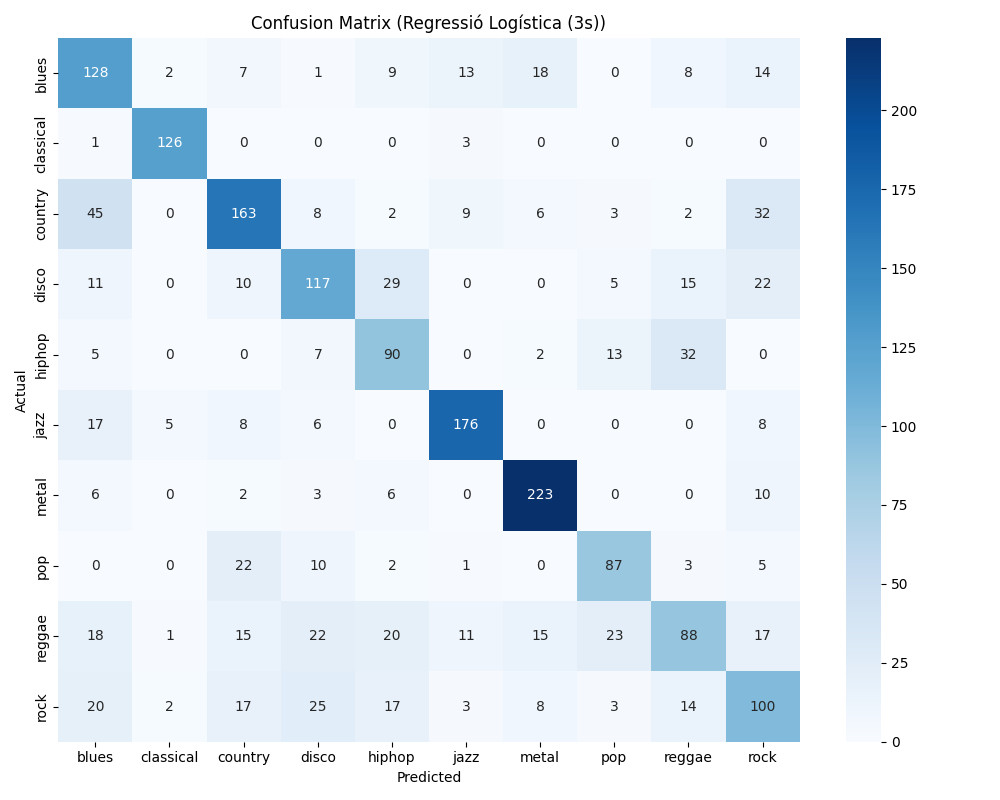
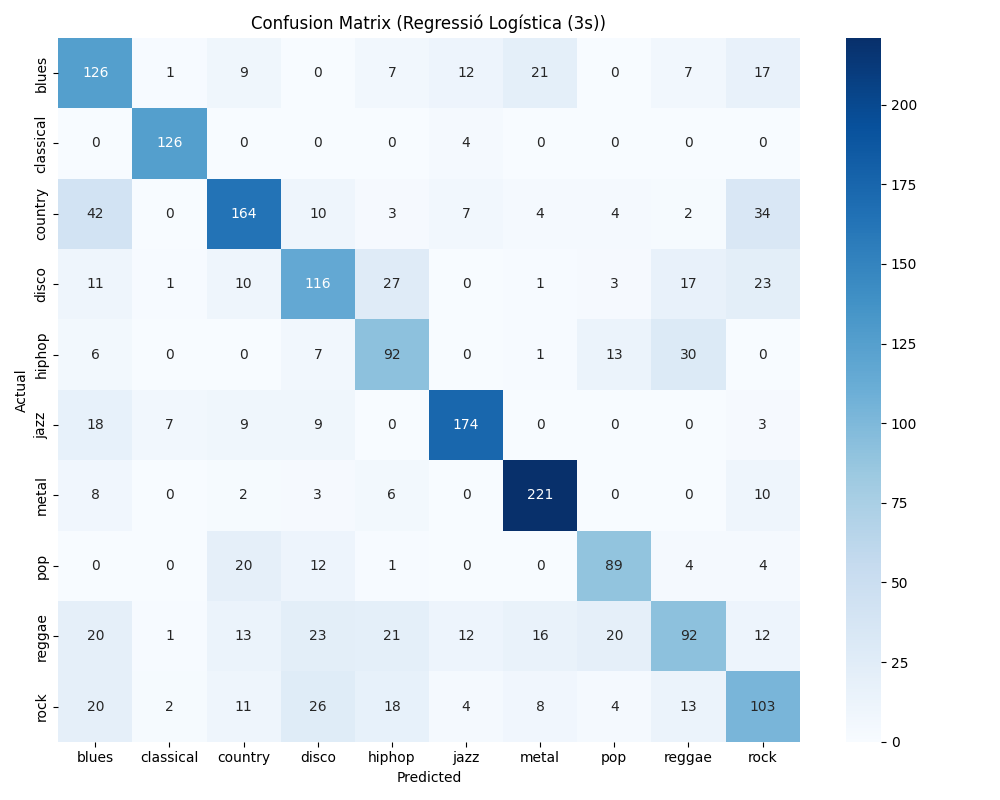
Justificacio LR

diff --git a/Models.py b/Models.py
@@ -397,7 +397,7 @@ def executar_xgboost(X_train, X_test, y_train, y_test, label_encoder, scaler, da
     }
 
 def executar_regressio_logistica(X_train, X_test, y_train, y_test, label_encoder, data_type, 
-                                 C=1.0, penalty='l2', solver='lbfgs', max_iter=1000, random_state=42):
+                                 C=0.2, penalty='l2', solver='lbfgs', max_iter=50, random_state=42):
     """
     Entrena, avalua i genera els plots del model de Regressió Logística
     per a la classificació multiclase.
